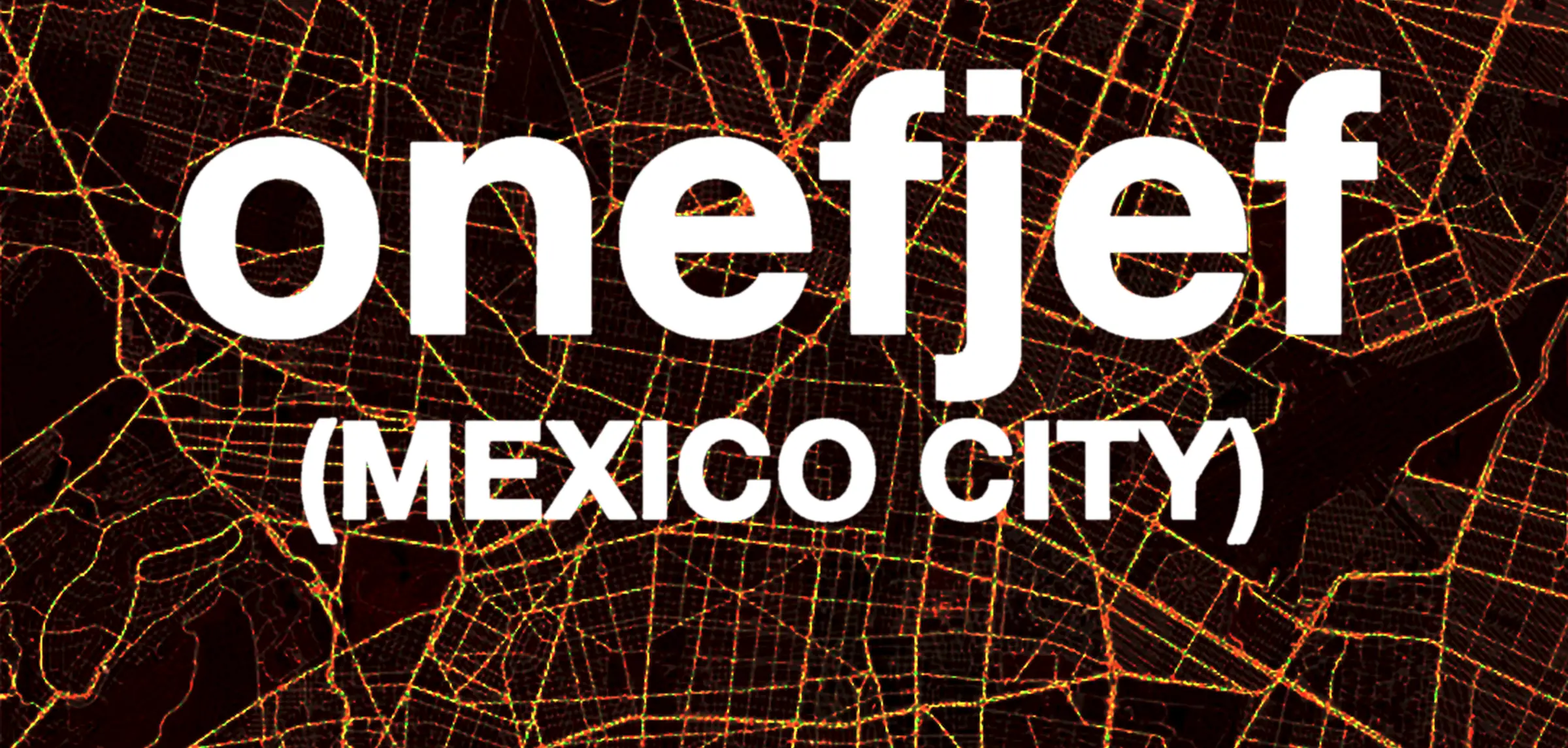
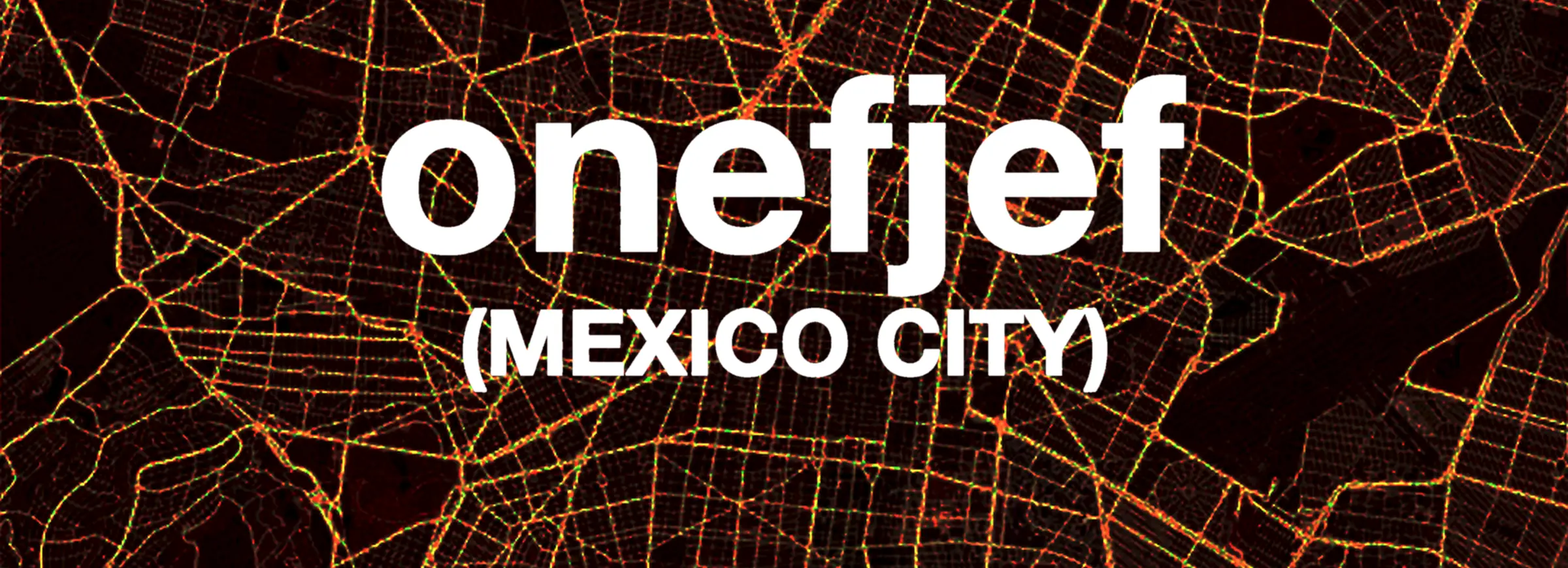
Make the title card lettering a third smaller
The home page title card now sets the lettering at two thirds of its
drawn size on a full-width map, in matching light and dark versions.

Claude-Session: https://claude.ai/code/session_01LygyFnW3yFk7AoAu6oXFUb

diff --git a/tools/make_title_cards.py b/tools/make_title_cards.py
@@ -1,37 +1,55 @@
-"""Builds the home page title cards from the two thumbnails (wide and square):
-trims the empty map above the wordmark, and makes a matching dark version of
-each with the lettering in exactly the same place, so switching between light
-and dark never moves the page.
+"""Builds the home page title cards from the two thumbnails (wide and square).
 
-    python3 tools/make_title_cards.py WIDE.jpg SQUARE.jpg
-Needs Pillow, numpy and tools/map-dark.png.
+The lettering is lifted out of each thumbnail and set, at a chosen size, on a
+full-width map. A dark version is made with the lettering in exactly the same
+place, so switching between light and dark never moves the page.
+
+    python3 tools/make_title_cards.py WIDE.jpg SQUARE.jpg [SCALE]
+
+SCALE is how wide the lettering is compared with the original artwork
+(1.0 = as drawn, 0.67 = a third smaller). Needs Pillow, numpy,
+tools/map-light.png and tools/map-dark.png.
 """
 import sys, os
 import numpy as np
 from PIL import Image, ImageFilter
 ROOT = os.path.dirname(os.path.dirname(os.path.abspath(__file__)))
 OUT = os.path.join(ROOT, 'static/img')
-dark_map = Image.open(os.path.join(ROOT, 'tools/map-dark.png')).convert('RGB')
+maps = {t: Image.open(os.path.join(ROOT, f'tools/map-{t}.png')).convert('RGB') for t in ('light', 'dark')}
+SCALE = float(sys.argv[3]) if len(sys.argv) > 3 else 0.67
 
-def card(src, name, top_gap, bottom_room, widths):
+def cover(img, w, h):
+    s = max(w / img.width, h / img.height)
+    big = img.resize((round(img.width * s), round(img.height * s)), Image.LANCZOS)
+    x = (big.width - w) // 2; y = (big.height - h) // 2
+    return big.crop((x, y, x + w, y + h))
+
+def card(src, name, out_w, top_gap, bottom_room):
     im = Image.open(src).convert('RGB')
     a = np.asarray(im).astype(int)
-    red = (a[..., 0] - np.maximum(a[..., 1], a[..., 2])) > 45       # the lettering
-    rows = np.where(red.sum(axis=1) > im.width * 0.01)[0]
-    y0, y1 = rows[0], rows[-1]
-    top = max(0, int(y0 - top_gap * im.width)); bot = min(im.height, int(y1 + bottom_room * im.width))
-    light = im.crop((0, top, im.width, bot))
-    mask = Image.fromarray((red[top:bot] * 255).astype('uint8')).filter(ImageFilter.MaxFilter(5)).filter(ImageFilter.GaussianBlur(1.2))
-    scale = max(light.width / dark_map.width, light.height / dark_map.height)
-    bg = dark_map.resize((round(dark_map.width * scale), round(dark_map.height * scale)), Image.LANCZOS)
-    x = (bg.width - light.width) // 2; y = (bg.height - light.height) // 2
-    dark = bg.crop((x, y, x + light.width, y + light.height))
-    dark.paste(Image.new('RGB', light.size, (255, 255, 255)), (0, 0), mask)
-    for w in widths:
-        h = round(w * light.height / light.width)
-        light.resize((w, h), Image.LANCZOS).save(os.path.join(OUT, f'hero-{name}-{w}.webp'), quality=72, method=6)
-        dark.resize((w, h), Image.LANCZOS).save(os.path.join(OUT, f'hero-{name}-dark-{w}.webp'), quality=72, method=6)
-        print(name, w, h, f'text rows {y0}-{y1} of {im.height}')
+    red = (a[..., 0] - np.maximum(a[..., 1], a[..., 2])) > 45            # the lettering
+    rows = np.where(red.sum(axis=1) > im.width * 0.01)[0]; cols = np.where(red.sum(axis=0) > im.height * 0.004)[0]
+    pad = round(im.width * 0.012)
+    box = (max(cols[0] - pad, 0), max(rows[0] - pad, 0), min(cols[-1] + pad, im.width), min(rows[-1] + pad, im.height))
+    letters = Image.fromarray((red * 255).astype('uint8')).crop(box)
+    edge = max(3, round(im.width * 0.0032)) | 1                               # reach out to take in the white outline
+    with_outline = letters.filter(ImageFilter.MaxFilter(edge * 2 + 1)).filter(ImageFilter.GaussianBlur(edge * 0.35))
+    art = im.crop(box)
+    # size on the finished card
+    k = out_w / im.width * SCALE
+    tw, th = round(art.width * k), round(art.height * k)
+    out_h = round(out_w * top_gap) + th + round(out_w * bottom_room)
+    x, y = (out_w - tw) // 2, round(out_w * top_gap)
+    light = cover(maps['light'], out_w, out_h)
+    light.paste(art.resize((tw, th), Image.LANCZOS), (x, y), with_outline.resize((tw, th), Image.LANCZOS))
+    dark = cover(maps['dark'], out_w, out_h)
+    solid = letters.filter(ImageFilter.MaxFilter(5)).filter(ImageFilter.GaussianBlur(1.2)).resize((tw, th), Image.LANCZOS)
+    dark.paste(Image.new('RGB', (tw, th), (255, 255, 255)), (x, y), solid)
+    light.save(os.path.join(OUT, f'hero-{name}-{out_w}.webp'), quality=74, method=6)
+    dark.save(os.path.join(OUT, f'hero-{name}-dark-{out_w}.webp'), quality=74, method=6)
+    print(name, (out_w, out_h), 'lettering', (tw, th), f'= {tw / out_w:.0%} of the width')
+    return out_w, out_h
 
-card(sys.argv[1], 'wide', top_gap=0.045, bottom_room=0.16, widths=[2400])
-card(sys.argv[2], 'square', top_gap=0.07, bottom_room=0.24, widths=[1600])
+w = card(sys.argv[1], 'wide', 2400, top_gap=0.04, bottom_room=0.105)
+s = card(sys.argv[2], 'square', 1600, top_gap=0.07, bottom_room=0.2)
+print('SIZES', w, s)
